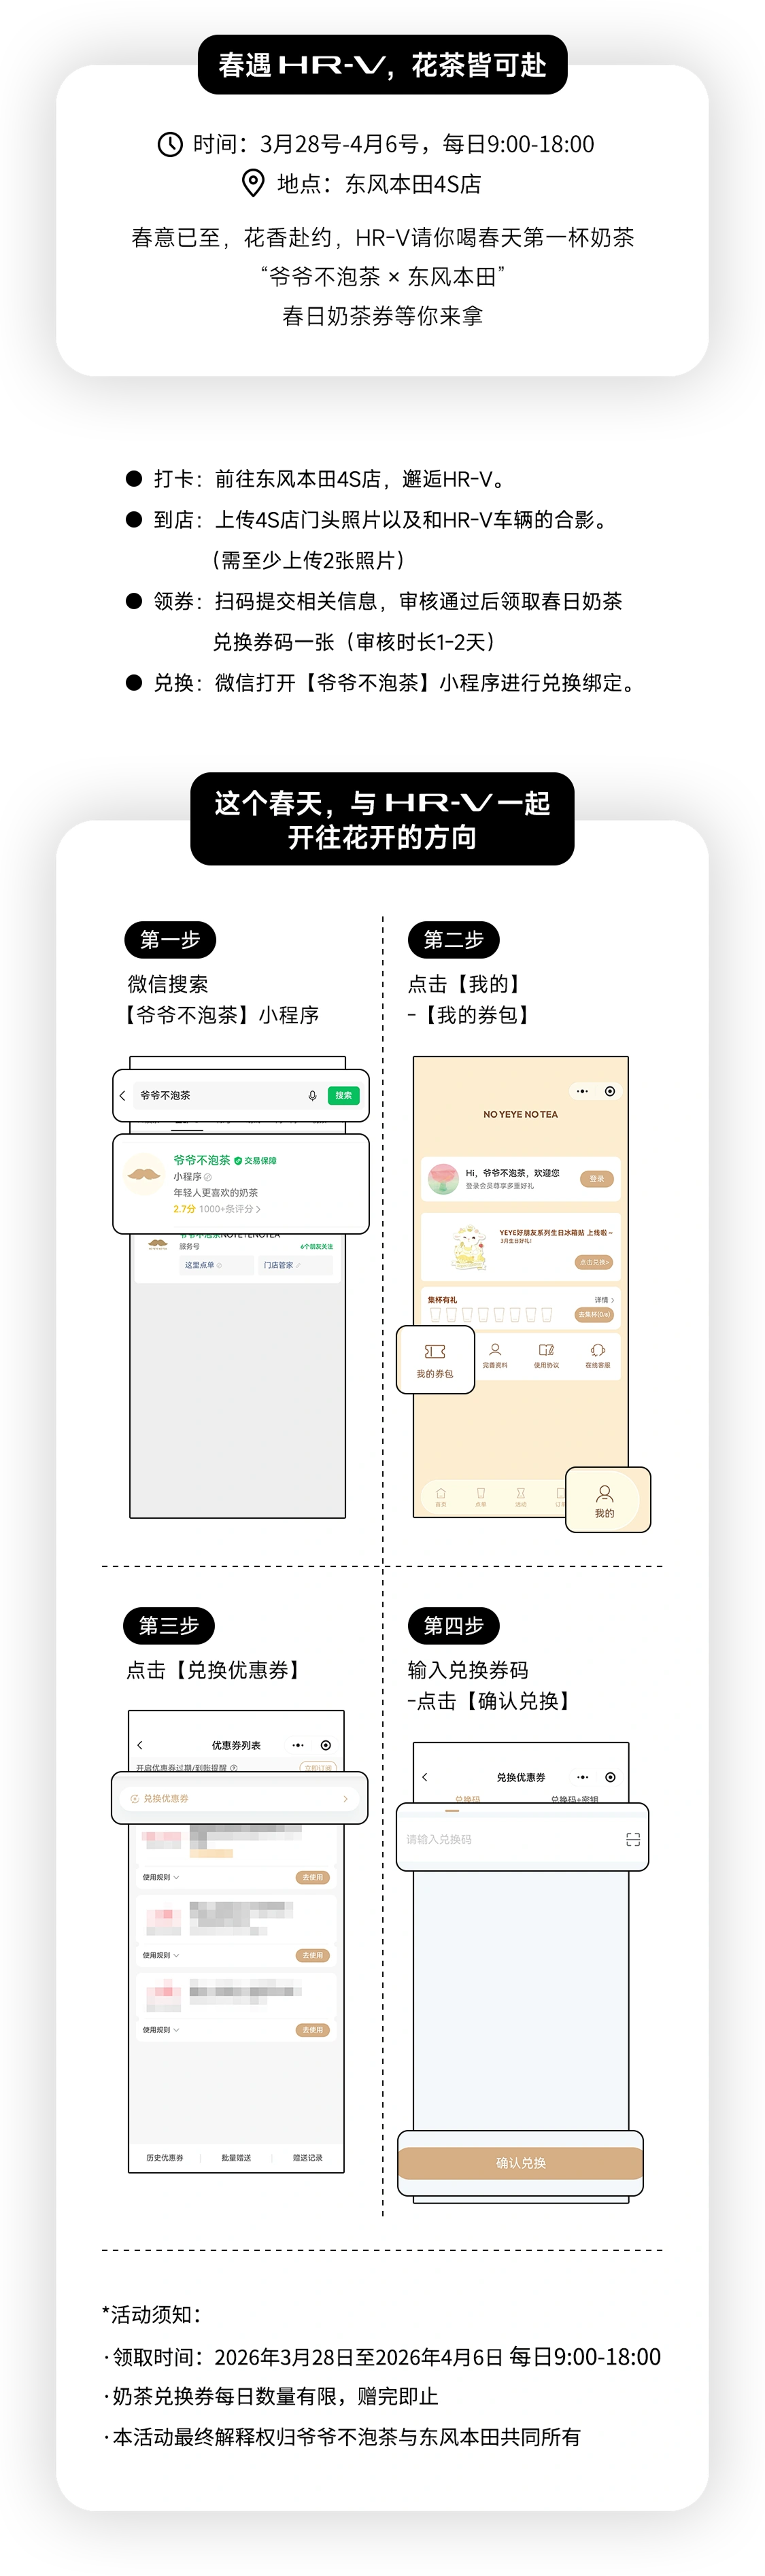
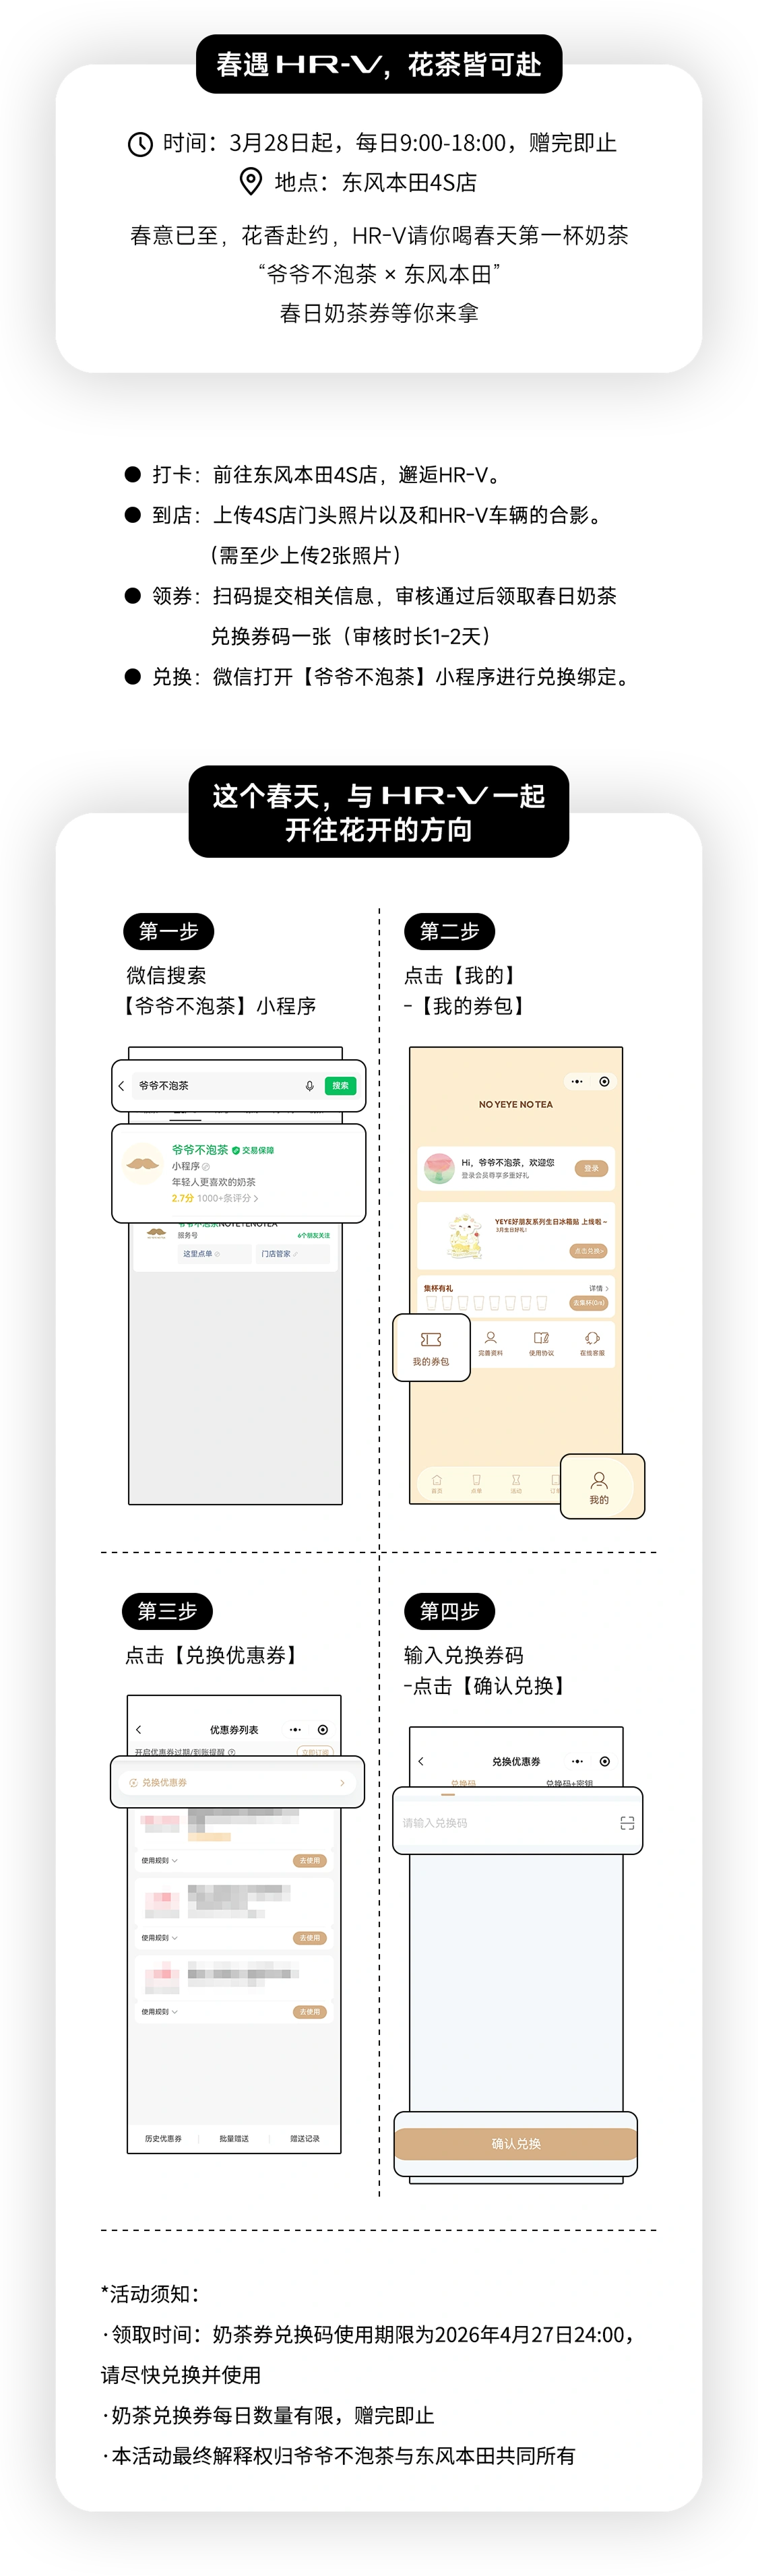
fix: 更新规则图片 + 活动结束时间延长至 4/27

diff --git a/src/App.tsx b/src/App.tsx
@@ -7,7 +7,7 @@ import "./App.css";
 
 const ResultModal = lazy(() => import("./components/ResultModal"));
 
-// 活动时间：3月28日-4月6日，每日 9:00-18:00（北京时间 UTC+8）
+// 活动时间：3月25日-4月27日，每日 9:00-18:00（北京时间 UTC+8）
 function isActivityOpen(): boolean {
   // 获取北京时间
   const now = new Date();
@@ -19,9 +19,9 @@ function isActivityOpen(): boolean {
   const day = beijing.getDate();
   const hour = beijing.getHours();
 
-  // 日期范围：2026年3月25日 ~ 2026年4月6日
+  // 日期范围：2026年3月25日 ~ 2026年4月27日
   const dateNum = year * 10000 + month * 100 + day;
-  if (dateNum < 20260325 || dateNum > 20260406) return false;
+  if (dateNum < 20260325 || dateNum > 20260427) return false;
 
   // 时间范围：9:00 ~ 18:00
   if (hour < 9 || hour >= 18) return false;